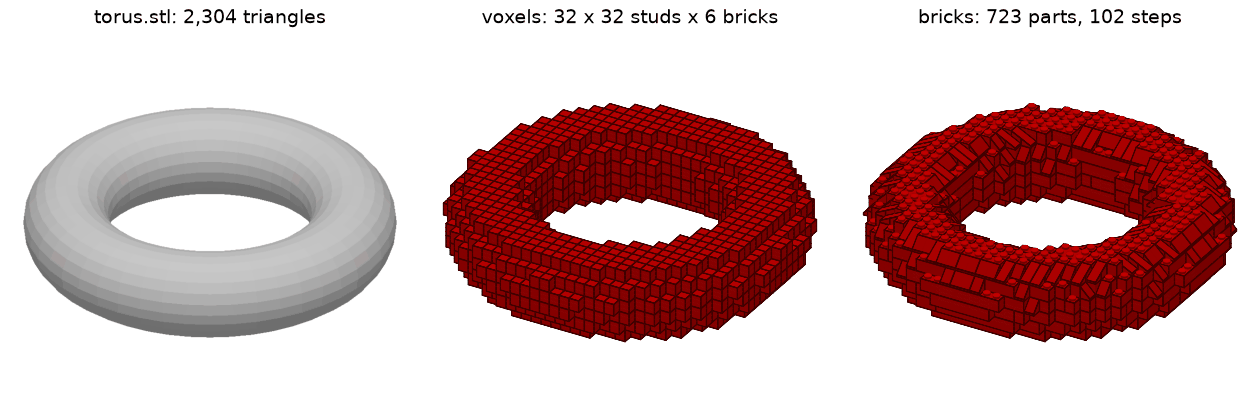
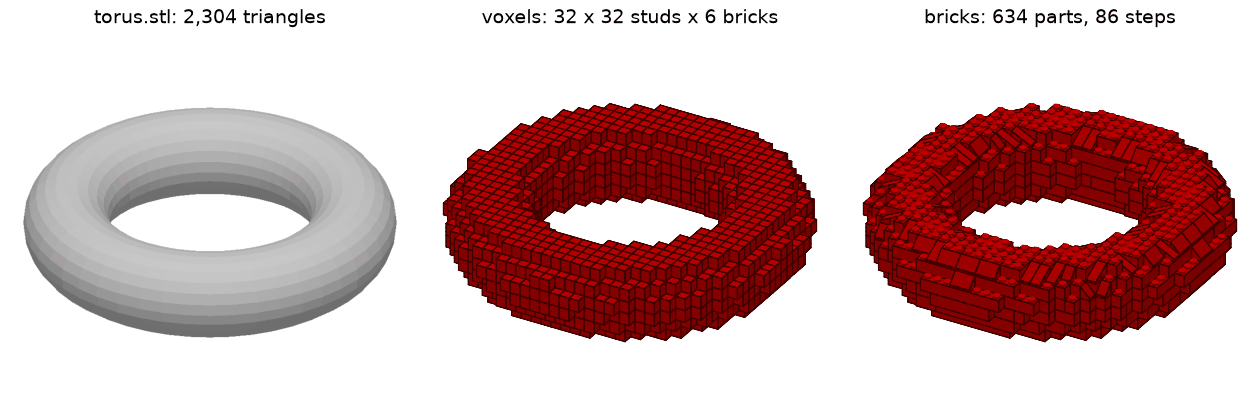
docs: slopes within +15 % parts – decisions, numbers, gallery
- STATUS (German): the product owner's answers of 2026-11-16 (limit of
  15 % by default, look of the roundings stays; observations on Duo's
  eye at 32 studs and on inverted slopes), 2.1.0 released as tagged,
  the limit as 2.1.1; numbers of the rerun.
- docs/benchmarks.md "Slopes within +15 % parts", ADR 0021 (decision 4
  now on by default), README (de/en), SPEC section 4.
- Gallery: sphere, vertex-colour sphere, toadstool and torus with the
  limit; before/after picture renewed.

Refs #51.

diff --git a/docs/STATUS.md b/docs/STATUS.md
@@ -1,16 +1,23 @@
 # Projektstatus
 
-Stand: 2026-11-16 · **ROADMAP 8 – mehr Dachsteine ([#51](https://github.com/leckermatz79/mesh2brick/issues/51)): fertig, [PR #52](https://github.com/leckermatz79/mesh2brick/pull/52) wartet auf dich** (Ziel-Release 2.1.0) · davor [2.0.0 veröffentlicht](https://github.com/leckermatz79/mesh2brick/releases/tag/v2.0.0) (Fliesen standardmäßig an) · Nächster Schritt: deine zwei Fragen unten, dann Merge und Tag v2.1.0
+Stand: 2026-11-16 · **2.1.1: Dachsteine höchstens +15 % Teile (deine Entscheidung), PR wartet auf dich** · davor [2.1.0 veröffentlicht](https://github.com/leckermatz79/mesh2brick/releases/tag/v2.1.0): ROADMAP 8 – mehr Dachsteine ([#51](https://github.com/leckermatz79/mesh2brick/issues/51), PR [#52](https://github.com/leckermatz79/mesh2brick/pull/52)) · Nächster Schritt: Merge und Tag v2.1.1, dann ROADMAP 10
 Repo: https://github.com/leckermatz79/mesh2brick (öffentlich) · Plan: [PLAN.md](PLAN.md) · Messwerte: [benchmarks.md](benchmarks.md) · [Beispielgalerie](gallery/README.md) · Was 1.0 kann: [CHANGELOG.md](../CHANGELOG.md)
 
 ## Fazit in zwei Sätzen
 
 - **Runde Formen bekommen jetzt Dachsteine, und zwar nur dort, wo ein Dachstein näher am 3D-Modell liegt als die Voxelstufe:** Kugel, Hase, Fliegenpilz und Torus kommen ihrem Modell im Mittel 9–13 % näher (Kugel 2,05 → 1,86 mm), statt 10 sind jetzt 1.080 Dachsteine von außen sichtbar, und alle 15 Läufe bleiben ein stabiles Stück.
-- Kästen, Burg und Herz sind Teil für Teil und Pixel für Pixel wie in 2.0.0; der Preis sind mehr Teile (+8 % bis +31 %), darum die erste Frage unten.
+- Kästen, Burg und Herz sind Teil für Teil und Pixel für Pixel wie in 2.0.0; Dachsteine kosten höchstens +15 % Teile (seit 2.1.1, deine Wahl), die wertvollsten zuerst.
 
-![Vorher (2.0.0) und nachher (2.1): Fliegenpilz, Hase, Torus](gallery/roadmap8b-slopes-2.1.png)
+![Vorher (2.0.0) und nachher (2.1.1): Fliegenpilz, Hase, Torus](gallery/roadmap8b-slopes-2.1.png)
 
-## Erledigt: ROADMAP 8 – mehr Dachsteine (Issue #51, PR #52)
+## In Arbeit: 2.1.1 – höchstens +15 % Teile für Dachsteine
+
+- **Deine Entscheidung vom 2026-11-16 umgesetzt:** `parts.slopes_max_share` ist jetzt standardmäßig 0,15. Die Dachsteine, die das Modell am nächsten ans 3D-Modell bringen, kommen zuerst; danach bleiben die übrigen Stufen, und der Lauf sagt, wie viele („74 stair(s) keep their step: parts limit (+15%) reached“). Modelle, die ohnehin unter 15 % bleiben, ändern sich nicht (Hase, Rakete, Duo).
+- **Neu gerechnet** (Kugel, Vertex-Kugel, Fliegenpilz, Torus, Hase zur Kontrolle, Burg; auf Akku, Zeiten nur Richtwerte): alle ein stabiles Stück, alle bei +14,9 % Teilen. Die Grenze kostet die Kugeln 0,02–0,03 mm, den Fliegenpilz nichts, den Torus am meisten (1,73 statt 1,65 mm). Teileschätzung 15 von 15 im Bereich.
+- **Zählung ehrlicher:** Der Hinweis zählt jede Stufe jetzt einmal (2.1.0 zählte jeden geprüften Platz: Hase 40 statt 21).
+- 2.1.0 bleibt, wie veröffentlicht (ohne Grenze); 2.1.1 bringt die Grenze (deine Wahl). Release-Seite 2.1.0 ist angelegt.
+
+## Erledigt: 2.1.0 – ROADMAP 8, mehr Dachsteine (Issue #51, PR #52, veröffentlicht 2026-11-16)
 
 - **Zuerst gemessen: legolizations ältere Variante `smooth`.** Sie setzt an runden Modellen 13–27 sichtbare Dachsteine, bei gleicher Teilezahl und stabil, **aber die Abweichung sinkt nicht** (Kugel 2,05 → 2,06 mm, Rakete 1,46 → 1,48 mm). Sie schaut nur auf die Voxel: Bei etwa der Hälfte der Stufen liegt das 3D-Modell dort, wo die Stufe schon näher ist als ein Dachstein.
 - **Dabei zwei Fehler in der 2.0-Messgröße gefunden und behoben.** (1) Dachsteine auf der Innenwand hohler Modelle (dorthin setzt legolization die meisten seiner Dachsteine) wurden als Außenfläche gemessen. Die runden Modelle standen in 2.0.0 deshalb zu schlecht da (Kugel 2,35 statt 2,05 mm, Hase 2,04 statt 1,96 mm). (2) Steht neben einem Dachstein ein höherer Stein, ist dessen Seite über der Schräge sichtbar. Diese Fläche fehlte in der Messung und in den Bildern; dort sah man kleine weiße Löcher. Beides ist korrigiert. Alle Vergleiche hier messen 2.0.0 neu mit der korrigierten Messgröße. Kästen, Burg und Duo ändern sich dadurch nicht.
@@ -22,7 +29,7 @@ Repo: https://github.com/leckermatz79/mesh2brick (öffentlich) · Plan: [PLAN.md
   - **Zeit:** Fehlt die Zeit für die Stabilitätsprüfung, wird der Nachlauf übersprungen, und Kommandozeile und Deckblatt sagen „Dachsteine übersprungen: Zeitgrenze; empfohlen --time 10min“. Das ist in keinem Lauf passiert.
 - **Darstellung und Export:** Dachsteine in allen vier Richtungen in Vorschau, Schrittbildern, „zuerst“-Feldern und Teilekasten („Dachstein 2 × 2“ usw. mit BrickLink-/Rebrickable-Nummer); LDraw-Datei streng wieder eingelesen, Teilelisten stimmen (alle 15 Läufe).
 - **Teileschätzung** von `inspect` zählt die Dachsteine jetzt mit; 15 von 15 Läufen im angezeigten Bereich.
-- **Einstellungen:** `parts.slopes: mesh` (neu, Standard), `preserve` (wie 2.0.0), `smooth` (legolizations alte Variante); `parts.slopes_max_share` begrenzt die Mehrteile (aus, siehe Frage 1). README (de/en), Beispiel-Config und SPEC §4 erklären es. Begründung: [ADR 0021](adr/0021-slopes-where-they-bring-the-model-closer-to-the-mesh.md).
+- **Einstellungen:** `parts.slopes: mesh` (neu, Standard), `preserve` (wie 2.0.0), `smooth` (legolizations alte Variante); `parts.slopes_max_share` begrenzt die Mehrteile (in 2.1.0 aus, seit 2.1.1 standardmäßig 15 %). README (de/en), Beispiel-Config und SPEC §4 erklären es. Begründung: [ADR 0021](adr/0021-slopes-where-they-bring-the-model-closer-to-the-mesh.md).
 
 | Abnahme (Issue #51) | Ergebnis |
 |---|---|
@@ -31,28 +38,28 @@ Repo: https://github.com/leckermatz79/mesh2brick (öffentlich) · Plan: [PLAN.md
 | Sichtbare Dachsteine je Modell deutlich mehr, Zahl ausweisen | **ja**: Hase 4 → 133, Kugel 0 → 272, Fliegenpilz 5 → 197, Torus 0 → 165, Vertex-Kugel 0 → 279, Rakete 0 → 33, Duo 0 → 109 (alle Testmodelle zusammen 10 → 1.080) |
 | Hase höchstens doppelt so lange; Burg und Texturwürfel unter 5 Minuten | **ja**: Hase 122 → 138 s (1,13-fach); Burg 249 s, Texturwürfel 243 s |
 | Kästen und L-Winkel pixelgleich wie 2.0.0 | **ja**: Würfel (STEP, STL), Texturwürfel, L-Winkel, zwei Körper, dazu Burg und Herz: gleiche Teile, gleiche Schritte, gleiche Bilder |
-| Teilezuwachs ausweisen, Richtwert +15 % | **teilweise**: Rakete +8 %, Duo +10 % / +15 %, Hase +14 %, Fliegenpilz +16 %, Kugeln +22 %, **Torus +31 %**; der Lauf meldet alles über 15 % (siehe Frage 1) |
+| Teilezuwachs ausweisen, Richtwert +15 % | **ja, seit 2.1.1 als Grenze** (deine Entscheidung): höchstens +15 %; in 2.1.0 ohne Grenze Kugeln +22 %, Torus +31 % |
 | Dachsteine, die es in der Farbe nicht gibt, bleiben Stufen und werden gezählt | **ja**: Duo 38 (32 Noppen) / 93 (48 Noppen) Stufen, Farbe Bright Green, 3039 und 4286 |
 | Abweichung nirgends schlechter | **ja**: Rakete 1,46 → 1,35 mm, Duo 1,72 → 1,61 (32) und 1,76 → 1,64 (48), Burg, Kästen, Herz unverändert |
 | Tests: Neigung an Keil 45°, Keil 30°, Kuppel; Ersetzen mit Stabilitätsprüfung; Rücknahme | **ja**: 51 neue Tests, 927 grün |
 | Darstellung, Exporte, Schichtschritte, „zuerst“-Felder | **ja** (siehe oben) |
 | Texturwürfel-PDF unter 10 MB | **ja**: 9,83 MB (unverändert) |
 
-## Messwerte 2.1 (Release-Lauf, Standardeinstellungen, am Netz)
+## Messwerte 2.1.1 (Release-Läufe, Standardeinstellungen)
 
-| Modell | Teile 2.0.0 → 2.1 | Dachsteine (sichtbar) | Abweichung Mittel / 95 % in mm | Zeit |
+| Modell | Teile 2.0.0 → 2.1.1 | Dachsteine (sichtbar) | Abweichung Mittel / 95 % in mm | Zeit |
 |---|---|---|---|---|
 | Hase | 873 → 997 (+14 %) | 14 (4) → 143 (133) | 1,96 / 4,40 → 1,78 / 4,12 | 122 → 138 s |
-| Kugel | 1.499 → 1.826 (+22 %) | 46 (0) → 318 (272) | 2,05 / 4,59 → 1,86 / 4,33 | 263 → 261 s |
-| Vertex-Kugel | 1.519 → 1.856 (+22 %) | 46 (0) → 325 (279) | 2,06 / 4,58 → 1,86 / 4,35 | 261 → 263 s |
-| Fliegenpilz | 1.239 → 1.431 (+16 %) | 16 (5) → 208 (197) | 1,96 / 4,50 → 1,75 / 4,20 | 255 → 261 s |
-| Torus | 552 → 723 (+31 %) | 4 (0) → 169 (165) | 1,90 / 4,46 → 1,65 / 4,12 | 33 → 46 s |
+| Kugel | 1.499 → 1.723 (+15 %; 2.1.0: +22 %) | 46 (0) → 241 (195) | 2,05 / 4,59 → 1,88 / 4,35 | 263 → 267 s* |
+| Vertex-Kugel | 1.519 → 1.746 (+15 %; 2.1.0: +22 %) | 46 (0) → 247 (201) | 2,06 / 4,58 → 1,89 / 4,37 | 261 → 267 s* |
+| Fliegenpilz | 1.239 → 1.424 (+15 %; 2.1.0: +16 %) | 16 (5) → 201 (190) | 1,96 / 4,50 → 1,75 / 4,20 | 255 → 263 s* |
+| Torus | 552 → 634 (+15 %; 2.1.0: +31 %) | 4 (0) → 95 (91) | 1,90 / 4,46 → 1,73 / 4,26 | 33 → 41 s* |
 | Rakete | 263 → 285 (+8 %) | 0 → 33 (33) | 1,46 / 3,18 → 1,35 / 3,18 | 18 → 20 s |
 | Duo, 32 Noppen (nur lokal) | 1.081 → 1.190 (+10 %) | 0 → 109 (109) | 1,72 / 4,23 → 1,61 / 4,03 | 143 → 156 s |
 | Duo, 48 Noppen, 20 min (nur lokal) | 2.308 → 2.650 (+15 %) | 0 → 311 (311) | 1,76 / 4,29 → 1,64 / 4,09 | 1.151 → 1.160 s |
 | Würfel, Texturwürfel, L-Winkel, zwei Körper, Burg, Herz | unverändert | unverändert | unverändert | gleich (±4 s) |
 
-Bilder: `out/slopes/vorher-nachher/` (alle Modelle, links 2.0.0, rechts 2.1; Duo nur lokal), Galerie neu mit Dachsteinen. Alle Läufe in `out/slopes/mesh/`, die Grundlinie `smooth` in `out/slopes/smooth/`.
+\* auf Akku gerechnet (Richtwert). Bilder: `out/slopes/vorher-nachher-2.1.1/` (links 2.0.0, rechts 2.1.1; Duo nur lokal), 2.1.0 in `out/slopes/vorher-nachher/`; Galerie neu. Läufe: `out/slopes/mesh/` (2.1.0), `out/slopes/cap15/` (2.1.1, neu gerechnete Modelle), zusammen in `out/slopes/release-2.1.1/`; die Grundlinie `smooth` in `out/slopes/smooth/`.
 
 ## Davor: 2.0.0 (veröffentlicht 2026-11-15)
 
@@ -60,7 +67,7 @@ Bilder: `out/slopes/vorher-nachher/` (alle Modelle, links 2.0.0, rechts 2.1; Duo
 
 ## Als Nächstes
 
-1. **Deine zwei Fragen unten**, dann Merge, Tag v2.1.0 und Release-Seite (Befehle im PR).
+1. **Merge und Tag v2.1.1** (Befehle im PR), dann lege ich die Release-Seite an.
 2. **ROADMAP 10 – runde Teile** (Reihenfolge in 2.0: 9, 8, dann 10, 11, 12, 13). Die Messgröße zeigt, wo es noch hängt: die Unterseiten runder Formen (dort bräuchte es umgedrehte Dachsteine, die legolizations Katalog nicht hat) und die Stufen, die ein Dachstein zu teuer machen würde. ROADMAP 12 (Farben schon beim Platzieren) bekommt die gezählten Stufen von Duo als Ausgangspunkt. Upstream: Antworten auf legolization #88/#89, #90/#91 und #99 sowie trimesh #2669 abwarten.
 
 Alle früheren Punkte (1.x, Roadmap 1–8 der ersten Liste) sind fertig; Einzelheiten in [CHANGELOG.md](../CHANGELOG.md) und in den [Issues mit Label `roadmap`](https://github.com/leckermatz79/mesh2brick/issues?q=label%3Aroadmap).
@@ -87,7 +94,8 @@ Alle früheren Punkte (1.x, Roadmap 1–8 der ersten Liste) sind fertig; Einzelh
 | Fliesen nur auf waagerechten Flächen. Schräge Flächen bekommen seit 2.1 Dachsteine, aber nur in den drei Neigungen, die legolization kennt (45° und 33°); ein flaches Dach (unter 8°) behält Noppen. | akzeptieren |
 | Kleine Modelle mit vielen umgebauten Steinen brauchen etwas länger, weil legolizations Schrittsuche mehr Teile sieht (L-Winkel 30 → 38 s, zwei Körper 163 → 182 s). | akzeptieren |
 | Liegt eine flache Fläche mehr als eine Platte von der Voxel-Oberkante entfernt, kommt die Fliese nur eine Platte näher (nur bei der Burg, 32 von 375 Fliesenfeldern). Platten werden nie tiefer gelegt. | akzeptieren |
-| Dachsteine kosten Teile: Wo ein Dachstein sitzt, werden die Steine darunter zugeschnitten (im Schnitt gut 1 Teil mehr pro Dachstein). Runde Modelle haben +8 % bis +31 % Teile (Torus am meisten); der Lauf meldet alles über +15 %. Stellen, die mehr als 2 Teile kosten würden, behalten ihre Stufe (30–200 je rundem Modell). | deine Frage 1; Grenze einstellbar mit `--set parts.slopes_max_share=0.15` |
+| Dachsteine kosten Teile: Wo ein Dachstein sitzt, werden die Steine darunter zugeschnitten (im Schnitt gut 1 Teil mehr pro Dachstein). Seit 2.1.1 höchstens +15 % pro Modell (die wertvollsten zuerst); Stellen, die mehr als 2 Teile kosten würden, behalten ihre Stufe. Beim Torus fällt so etwa die Hälfte der möglichen Dachsteine weg. | von dir so entschieden (2026-11-16); ohne Grenze: `--set parts.slopes_max_share=null` |
+| Kleine Details wirken mit Dachsteinen unruhig: Duos linkes Auge hat bei 32 Noppen einen nur eine Zelle breiten weißen Rand, der schon in 2.0.0 stufig aussah; Dachsteine darauf machen es nicht ruhiger. Bei 48 Noppen passen die Dachsteine besser (deine Beobachtung). | Modellgröße; bei Bedarf `--size` größer wählen |
 | Nur nach oben gerichtete Flächen bekommen Dachsteine. Die Unterseiten runder Formen (untere Kugelhälfte, Unterseite des Fliegenpilz-Huts) behalten Stufen: Umgedrehte Dachsteine gibt es in legolizations Katalog nicht. | ROADMAP 10 oder später (eigene Teile im Katalog) |
 | Dachsteine nur bei geschlossenen 3D-Modellen (innen und außen müssen klar sein) und in Steinhöhe; offene Netze (die Burg aus überlappenden Kästen) und `voxel.height_unit: plate` bekommen nur legolizations eigene Dachsteine. | akzeptieren; bei Bedarf eigener Code |
 | Dachsteine, die LEGO in einer Farbe nicht herstellt, bleiben Stufen (Duo: 38 Stufen in Bright Green, 3039 und 4286). | ROADMAP 12 (Farben schon beim Platzieren) |
@@ -165,13 +173,13 @@ Alle früheren Punkte (1.x, Roadmap 1–8 der ersten Liste) sind fertig; Einzelh
 | 2026-11-15 | Turmränder: Noppen oder Fliesen? | **Rand-Noppen bleibt Standard.** Für die Burg gefallen dir die Noppen auf den Türmen besser; das liegt an dieser Burg, beide Varianten sind sehr gut. „Rand-Fliesen“ bleibt als Einstellung (`--set parts.tiles_overhang=true`). Weiter mit Galerie, CHANGELOG 2.0.0 und Tag. |
 | 2026-11-15 | Studio-Prüfung mit Fliesen (Abnahme #42) | **Erledigt** (Duo, 2.0.0, lokal): keine Überlappungen, keine schwebenden Fliesen, Fliesen als „Tile“ angezeigt. 2.0.0 ist veröffentlicht. |
 | 2026-11-15 | Wie geht ROADMAP 8 (mehr Dachsteine)? | **Eigener Nachlauf in `place/` wie bei den Fliesen, kein Eingriff in legolization** (damit hängt nichts an einem Upstream-PR, die Fork-Frage stellt sich nicht). Erst `smooth` gegen `preserve` messen; Messgröße ist die Oberflächenabweichung; ein Dachstein darf Material über die Voxelform hinaus hinzufügen, wenn er dem Netz näher kommt; Dachsteine, die es in der Farbe nicht gibt, bleiben Stufen und werden gezählt (für Punkt 12); Burg und Texturwürfel unter 5 Minuten; Teilezuwachs ausweisen, Richtwert +15 %. Ziel-Release 2.1.0. Umgesetzt in [#51](https://github.com/leckermatz79/mesh2brick/issues/51). |
+| 2026-11-16 | Obergrenze für die Mehrteile durch Dachsteine? | **Ja, standardmäßig +15 %** (`parts.slopes_max_share=0.15`): die wertvollsten Dachsteine zuerst, der Rest bleibt Stufe, der Lauf meldet, was wegfällt. Ohne Grenze: `--set parts.slopes_max_share=null`. |
+| 2026-11-16 | Optik der Rundungen (Dachsteine und Stufen im Wechsel)? | **So lassen.** Beobachtungen von dir: Duos linkes Auge sieht in beiden Modellen etwas seltsam aus, in der kleinen Duo-Variante ist die Verteilung der Dachsteine nicht ideal (liegt an der Modellgröße, bei 48 Noppen passen sie); Rakete ok; an Kugel und Vertex-Kugel fehlen auf der unteren Hälfte umgedrehte Dachsteine (kommt in einem späteren Schritt). |
+| 2026-11-16 | v2.1.0 war schon gepusht, bevor die Grenze drin war | **v2.1.0 bleibt** (veröffentlichte Tags werden nicht verschoben, 2.1.0 ist in sich stimmig: ohne Grenze); die Grenze kommt als **2.1.1**. Release-Seite 2.1.0 angelegt. |
 
 ## Fragen an dich
 
-Die Bilder dazu: [gallery/roadmap8b-slopes-2.1.png](gallery/roadmap8b-slopes-2.1.png) und lokal `out/slopes/vorher-nachher/` (alle Modelle, links 2.0.0, rechts 2.1).
-
-1. **Obergrenze für die Mehrteile durch Dachsteine?** Ohne Grenze: Torus +31 % Teile, Kugeln +22 %, Fliegenpilz +16 %, Hase +14 %, Duo +10 %. Mit `--set parts.slopes_max_share=0.15` (die wertvollsten Dachsteine zuerst, der Rest bleibt Stufe): Torus +15 % und 1,74 statt 1,66 mm Abweichung (ein Drittel des Gewinns weg), Kugel +15 % und 1,89 statt 1,87 mm (kaum ein Unterschied). **Standardannahme: keine Grenze, der Lauf meldet nur mehr als +15 %** (wie bei den Fliesen); die Grenze bleibt als Einstellung.
-2. **Gefällt dir die Optik der Rundungen?** Dachsteine stehen nur dort, wo sie dem Modell näher kommen. Darum wechseln sich auf einer Rundung Dachsteine und Stufen ab (etwa die Hälfte der Stufen bleibt), und Dachsteine zeigen in alle vier Richtungen. Ganz vereinzelte Dachsteine sind selten (0–3 % an Kugel, Hase, Fliegenpilz, Torus; 7 % an Duo, 12 % an der Rakete). Von der Seite, auf die man blickt, wirkt die Fläche glatter; Schrägen, die vom Betrachter weg abfallen, sieht man nur als schmale Kanten. **Standardannahme: so lassen.** Wenn dir ruhigere Flächen lieber sind, wäre eine Regel wie bei den Fliesen denkbar („nur zusammenhängende Dachstein-Flächen“).
+Keine offenen Fragen. Deine Antworten vom 2026-11-16 stehen unter „Deine Entscheidungen“.
 
 ## Offene Kleinigkeiten
 

diff --git a/docs/gallery/README.md b/docs/gallery/README.md
@@ -15,18 +15,18 @@ Apple-M2-Max-Laptop (eine Umwandlung nach der anderen).
 
 | Model | Shows · zeigt | Parts | Steps | Colours | One stable piece | Time |
 |---|---|---:|---:|---:|---|---:|
-| `bunny_lowpoly.stl` | Organic shape, thin ears, overlapping shells · Organische Form, dünne Ohren, überlappende Hüllen | 997 | 137 | 1 | yes · ja | 138 s |
+| `bunny_lowpoly.stl` | Organic shape, thin ears, overlapping shells · Organische Form, dünne Ohren, überlappende Hüllen | 997 | 137 | 1 | yes · ja | 143 s |
 | `cube_10mm.step` | Plain cube (STL and STEP twin) · Würfel (STL und STEP) | 2,091 | 294 | 1 | yes · ja | 247 s |
 | `cube_10mm.stl` | Plain cube (STL and STEP twin) · Würfel (STL und STEP) | 2,091 | 294 | 1 | yes · ja | 248 s |
 | `heart.vox` | MagicaVoxel input (legolization example) · MagicaVoxel-Eingabe | 12 | 7 | 1 | yes · ja | 4 s |
 | `l_bracket.stl` | Overhang · Überhang | 177 | 40 | 1 | yes · ja | 36 s |
 | `rocket.blend` | Blender file: materials, an Array modifier, a hidden helper, millimetre units · Blender-Datei: Materialien, Array-Modifier, verstecktes Hilfsobjekt, mm | 285 | 48 | 4 | yes · ja | 20 s |
-| `sphere_r10.stl` | Round shape · Runde Form | 1,826 | 242 | 1 | yes · ja | 261 s |
+| `sphere_r10.stl` | Round shape · Runde Form | 1,723 | 234 | 1 | yes · ja | 267 s |
 | `textured_cube.obj` | Image texture (OBJ) · Bildtextur (OBJ) | 2,466 | 354 | 2 | yes · ja | 243 s |
-| `toadstool.obj` | Material colours (OBJ) · Materialfarben (OBJ) | 1,431 | 200 | 2 | yes · ja | 261 s |
-| `torus.stl` | Through-hole · Durchgehendes Loch | 723 | 102 | 1 | yes · ja | 46 s |
+| `toadstool.obj` | Material colours (OBJ) · Materialfarben (OBJ) | 1,424 | 198 | 2 | yes · ja | 263 s |
+| `torus.stl` | Through-hole · Durchgehendes Loch | 634 | 86 | 1 | yes · ja | 41 s |
 | `two_bodies.step` | STEP with two coloured bodies · STEP mit zwei farbigen Körpern | 702 | 97 | 2 | yes · ja | 179 s |
-| `vertex_colors.ply` | Vertex colours (PLY) · Vertexfarben (PLY) | 1,856 | 254 | 4 | yes · ja | 263 s |
+| `vertex_colors.ply` | Vertex colours (PLY) · Vertexfarben (PLY) | 1,746 | 241 | 4 | yes · ja | 267 s |
 | `castle.step` | Generated STEP, about 1,650 parts: the v1.0 timing case · Erzeugtes STEP, rund 1.650 Teile: der Zeit-Test für v1.0 | 1,712 | 241 | 3 | yes · ja | 249 s |
 
 ## bunny_lowpoly

diff --git a/docs/benchmarks.md b/docs/benchmarks.md
@@ -1314,3 +1314,27 @@ site was rated, then on the saved 2.0.0 layouts; metric without fix 2 for these 
 - **Output checks:** all files, parts-list totals and strict LDraw re-reads pass; the parts list
   shows 3039, 3040b and 4286 with their names and pictures; step pictures and "first" boxes show
   the slopes. Pictures: `out/slopes/vorher-nachher/` (local), `docs/gallery/roadmap8b-slopes-2.1.png`.
+
+### Slopes within +15 % parts (2.1.1, 2026-11-16)
+
+Product owner, after the 2.1.0 pictures: `parts.slopes_max_share: 0.15` by default. Rerun of the
+models above 15 % and the bunny as a control (`scripts/benchmark_release.py --out out/slopes/cap15
+--only ...`, the castle runs anyway; on battery, so the times are indicative):
+
+| Input | Parts 2.0.0 → 2.1.1 (2.1.0) | Slopes (visible) | Deviation mean / p95 mm, 2.1.1 (2.1.0) | One stable piece | Time s | Checked states |
+|---|---|---|---|---|---|---|
+| `bunny_lowpoly.stl` | 873 → 997, +14.2 % (same) | 143 (133), same | 1.78 / 4.12 (same) | yes | 143 | 137/137 |
+| `sphere_r10.stl` | 1,499 → 1,723, +14.9 % (+21.8 %) | 241 (195) (318 (272)) | 1.88 / 4.35 (1.86 / 4.33) | yes | 267 | 127/234 |
+| `vertex_colors.ply` | 1,519 → 1,746, +14.9 % (+22.2 %) | 247 (201) (325 (279)) | 1.89 / 4.37 (1.86 / 4.35) | yes | 267 | 127/241 |
+| `toadstool.obj` | 1,239 → 1,424, +14.9 % (+15.5 %) | 201 (190) (208 (197)) | 1.75 / 4.20 (1.75 / 4.20) | yes | 263 | 149/198 |
+| `torus.stl` | 552 → 634, +14.9 % (+31.0 %) | 95 (91) (169 (165)) | 1.73 / 4.26 (1.65 / 4.12) | yes | 41 | 86/86 |
+| `castle.step`, `--config` | 1,712, unchanged | 4 (1) | 3.27 / 8.00 | yes | 250 | 148/241 |
+
+- The bunny is identical to 2.1.0 (the pass runs without the limit first and keeps that result at
+  +14.2 %); so are rocket (+8.4 %), Duo at 32 (+10.1 %) and at 48 studs (+14.8 %), the boxes and
+  the castle.
+- The limit costs the spheres 0.02–0.03 mm, the toadstool nothing, the torus most (0.08 / 0.14 mm):
+  its stairs all gain about the same, so the cut falls in the middle of them. 5–74 stairs per
+  model keep their step for the limit (the run names the number).
+- Estimate: `inspect` caps the slope term at 15 % too; 6 of 6 inside the range here, 15 of 15 with
+  the unchanged models (`scripts/benchmark_estimate.py`).

diff --git a/docs/adr/0021-slopes-where-they-bring-the-model-closer-to-the-mesh.md b/docs/adr/0021-slopes-where-they-bring-the-model-closer-to-the-mesh.md
@@ -89,10 +89,15 @@ rounded surfaces the position changes from stair to stair. Only the mesh can tel
    --time 10min" (`BrickModel.slopes_skipped`, schema 7).
 4. **Settings.** `parts.slopes: mesh` (default) is all of the above after legolization's `preserve`
    pass; `preserve` gives the 2.0.0 result; `smooth` is legolization's older pass (for comparison).
-   The voxelizer computes the ratings only for `mesh`. `parts.slopes_max_share` (off by default)
-   limits the slopes' extra parts per model, best slopes first (torus at +15 %: 84 instead of 169
-   slopes, 1.74 instead of 1.66 mm; sphere 1.89 instead of 1.87 mm). Off, because the product owner
-   set +15 % as a guide that is reported, not enforced, for the tiles; the question is in STATUS.
+   The voxelizer computes the ratings only for `mesh`. **`parts.slopes_max_share: 0.15`** (product
+   owner, 2026-11-16, after the pictures): the slopes add at most 15 % parts per model; the slopes
+   that bring the model closest come first, the other stairs keep their steps and the run says how
+   many (`null`: no limit). Pieces joined again give parts back, so the pass runs without a limit
+   first (a model under 15 % is not touched by the limit), then with the largest running limit that
+   ends within 15 % (a binary search, a few tenths of a second per try). Release 2.1.1: sphere
+   +14.9 % instead of +21.8 % parts, 1.88 / 4.35 instead of 1.86 / 4.33 mm; torus +14.9 % instead of
+   +31.0 %, 1.73 / 4.26 instead of 1.65 / 4.12 mm; bunny, rocket and Duo unchanged. (2.1.0 shipped
+   with the limit off.)
 5. **Part estimate.** `inspect` adds 0.45 / 0.58 / 0.75 parts (low / expected / high) per stud cell
    with a slope worth placing (measured 0.49–0.71 on the release run); 15 of 15 runs inside the range.
 6. **Display and export need nothing new** beyond the faces of fix (2): slopes are drawn as wedges since 1.3 in every turn

diff --git a/README.de.md b/README.de.md
@@ -110,9 +110,9 @@ uv run mesh2brick convert modell.stl -o out/ --set "parts.categories=[brick, pla
 # in einer Farbe nicht herstellt, bleiben Stufen (der Lauf zählt sie). Voxeldateien bekommen nur
 # legolizations eigene Dachsteine. Wie in 2.0:
 uv run mesh2brick convert modell.stl -o out/ --set parts.slopes=preserve
-# Dachsteine kosten Teile (runde Modelle +10 % bis +30 %); höchstens +15 % für Dachsteine, die
-# besten zuerst: --set parts.slopes_max_share=0.15. Ganz ohne Dachsteine:
-# --set "parts.categories=[brick, plate, tile]"
+# Dachsteine kosten Teile: standardmäßig höchstens +15 % pro Modell, die Dachsteine, die das Modell
+# am nächsten ans 3D-Modell bringen, zuerst (der Lauf sagt, wie viele Stufen bleiben); ohne Grenze:
+# --set parts.slopes_max_share=null. Ganz ohne Dachsteine: --set "parts.categories=[brick, plate, tile]"
 
 # Jede Einstellung aus mesh2brick.yaml lässt sich auf der Kommandozeile überschreiben
 uv run mesh2brick place modell.vox --set placement.strategy=greedy --set placement.seed=3

diff --git a/SPEC.md b/SPEC.md
@@ -135,7 +135,7 @@ color:
 parts:
   categories: [brick, plate, slope, tile]   # tile seit 2.0 Standard (PO 2026-11-12, ADR 0020: Fliesen nur auf flachen Flächen des 3D-Modells); slope war 2026-11-01 bis 1.3.0 opt-in (legolization 0.5.0 bis zu 50x langsamer); seit 1.3.0 (ROADMAP Punkt 8, Issue #34) wieder Standard: die Reihenfolge der LP-Versuche macht Slopes billig (alle Fixtures stabil, höchstens 1,45-fache Zeit)
   slopes: mesh          # 2026-11-15 (ROADMAP 8, ADR 0021): Dachsteine auf Treppen geneigter Flächen, wo sie näher am 3D-Modell liegen als die Stufe; preserve = wie 2.0, smooth = legolizations ältere Variante
-  slopes_max_share: null   # 2026-11-15: z. B. 0.15 = Dachsteine höchstens +15 % Teile (die besten zuerst); null = ohne Grenze, der Lauf meldet mehr als +15 %
+  slopes_max_share: 0.15   # 2026-11-16 (PO): Dachsteine höchstens +15 % Teile, die wertvollsten zuerst, der Rest bleibt Stufe (der Lauf meldet, was wegfällt); null = ohne Grenze
   include: []
   exclude: []
   max_parts: 5000

diff --git a/README.md b/README.md
@@ -105,8 +105,9 @@ uv run mesh2brick convert model.stl -o out/ --set "parts.categories=[brick, plat
 # piece (checked again, undone otherwise). Slopes LEGO does not make in a colour stay stairs (the
 # run counts them). Voxel files get only legolization's own slopes. As in 2.0:
 uv run mesh2brick convert model.stl -o out/ --set parts.slopes=preserve
-# Slopes cost parts (round models +10 % to +30 %); at most +15 % for slopes, best first:
-# --set parts.slopes_max_share=0.15. No slopes at all: --set "parts.categories=[brick, plate, tile]"
+# Slopes cost parts: at most +15 % per model by default, the slopes that bring the model closest
+# first (the run says how many stairs keep their step); no limit: --set parts.slopes_max_share=null.
+# No slopes at all: --set "parts.categories=[brick, plate, tile]"
 
 # Override any setting from mesh2brick.yaml on the command line
 uv run mesh2brick place model.vox --set placement.strategy=greedy --set placement.seed=3
